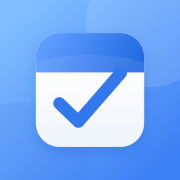
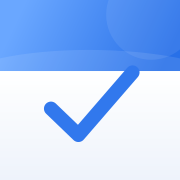
앱 아이콘을 테두리 없는 전체 화면 디자인으로 변경

diff --git a/index.html b/index.html
@@ -9,10 +9,10 @@
     <meta name="apple-mobile-web-app-title" content="캘린더" />
     <meta name="mobile-web-app-capable" content="yes" />
     <title>캘린더</title>
-    <link rel="manifest" href="manifest.webmanifest?v=14" />
-    <link rel="icon" href="icon.svg?v=14" type="image/svg+xml" />
-    <link rel="apple-touch-icon" sizes="180x180" href="apple-touch-icon.png?v=14" />
-    <link rel="stylesheet" href="styles.css?v=14" />
+    <link rel="manifest" href="manifest.webmanifest?v=15" />
+    <link rel="icon" href="icon.svg?v=15" type="image/svg+xml" />
+    <link rel="apple-touch-icon" sizes="180x180" href="apple-touch-icon.png?v=15" />
+    <link rel="stylesheet" href="styles.css?v=15" />
     <script>
       try {
         const savedTheme = localStorage.getItem('calendar-theme-v1');
@@ -188,8 +188,8 @@
       </article>
     </template>
     <script src="https://cdn.jsdelivr.net/npm/@supabase/supabase-js@2"></script>
-    <script src="supabase-config.js?v=14"></script>
-    <script src="shared-calendar.js?v=14"></script>
-    <script src="app.js?v=14"></script>
+    <script src="supabase-config.js?v=15"></script>
+    <script src="shared-calendar.js?v=15"></script>
+    <script src="app.js?v=15"></script>
   </body>
 </html>

diff --git a/sw.js b/sw.js
@@ -1,17 +1,17 @@
-const CACHE_NAME = 'calendar-v14';
+const CACHE_NAME = 'calendar-v15';
 const APP_SHELL = [
   './',
   './index.html',
-  './styles.css?v=14',
-  './app.js?v=14',
-  './shared-calendar.js?v=14',
-  './supabase-config.js?v=14',
-  './manifest.webmanifest?v=14',
-  './icon.svg?v=14',
-  './apple-touch-icon.png?v=14',
-  './icon-192.png?v=14',
-  './icon-512.png?v=14',
-  './icon-maskable-512.png?v=14',
+  './styles.css?v=15',
+  './app.js?v=15',
+  './shared-calendar.js?v=15',
+  './supabase-config.js?v=15',
+  './manifest.webmanifest?v=15',
+  './icon.svg?v=15',
+  './apple-touch-icon.png?v=15',
+  './icon-192.png?v=15',
+  './icon-512.png?v=15',
+  './icon-maskable-512.png?v=15',
 ];
 
 self.addEventListener('install', (event) => {
